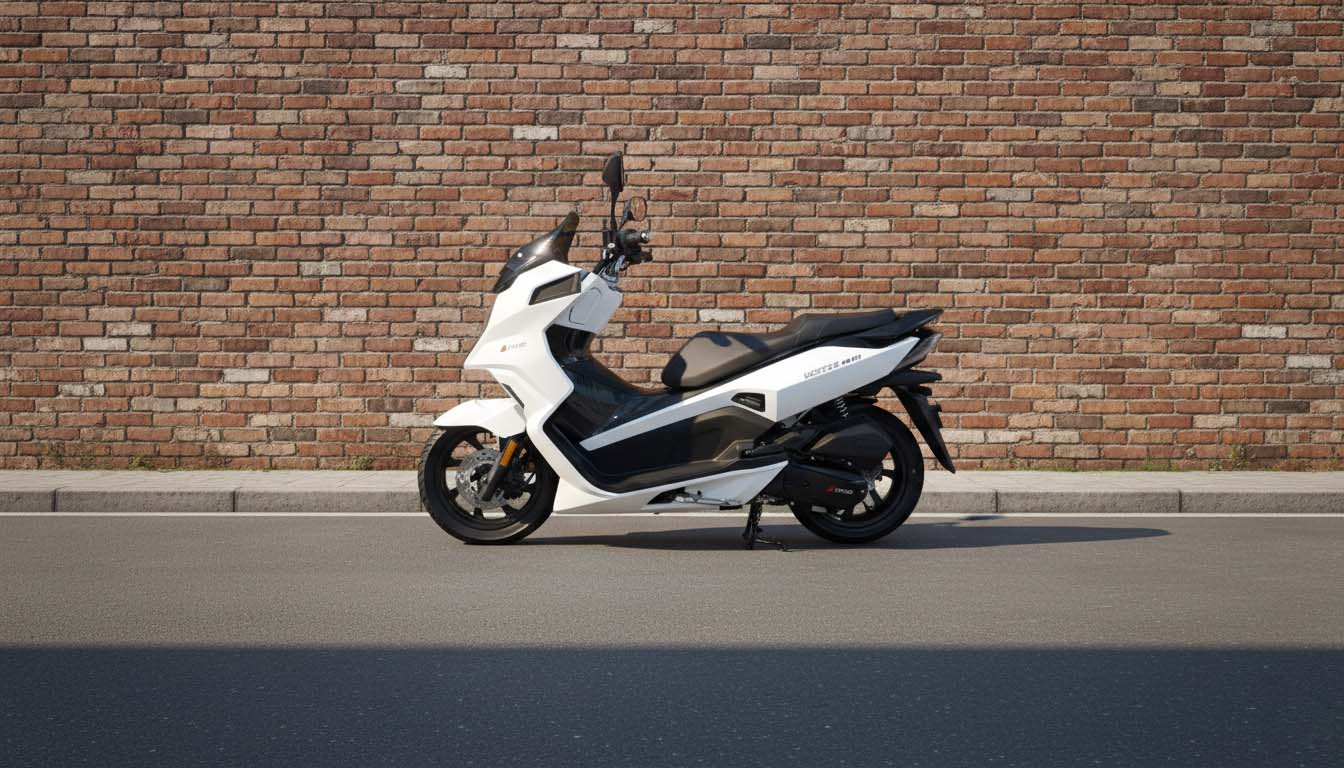
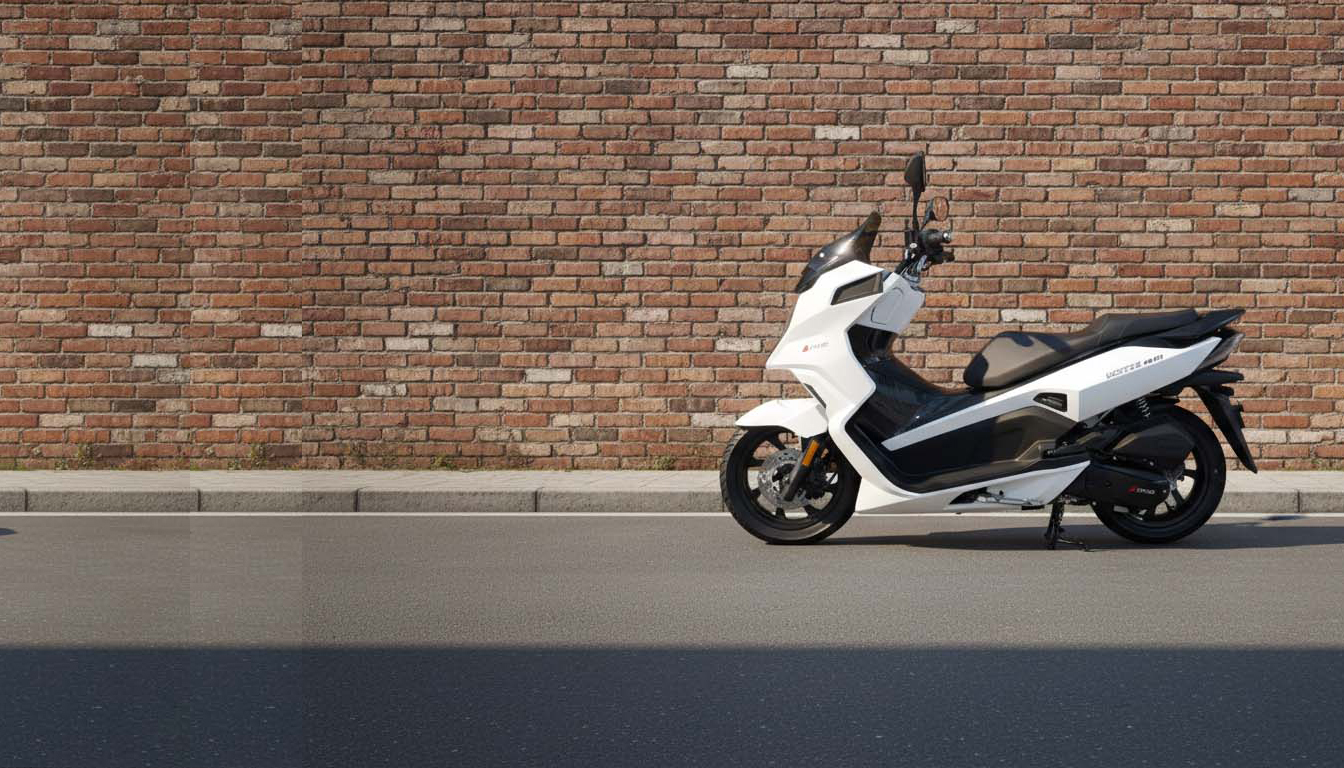
imesh-end

diff --git a/client/src/Pages/Public/Home/Home.css b/client/src/Pages/Public/Home/Home.css
@@ -35,13 +35,20 @@
   width: 100%;
   height: 100%;
   background-size: cover;
-  background-position: center;
+  background-position: 75% center;
   opacity: 0;
   transform: scale(1.1);
   transition:
     opacity 1.5s ease-in-out,
     transform 6s ease;
   filter: brightness(0.7) grayscale(30%);
+}
+
+/* Mobile responsive for background slides */
+@media (max-width: 768px) {
+  .hero-bg-slide {
+    background-position: center;
+  }
 }
 
 .hero-bg-slide.active {
@@ -686,7 +693,7 @@
   }
 
   .hero-overlay-gradient {
-    background: linear-gradient(to top, var(--color-bg) 10%, transparent 100%);
+    background: linear-gradient(to bottom, var(--color-bg) 20%, transparent 80%);
   }
 
   .hero-content {
@@ -713,8 +720,6 @@
     line-height: 1.3;
     margin-bottom: 1.5rem;
   }
-
-
 
   .hero-buttons {
     justify-content: center;
@@ -824,6 +829,8 @@
     min-height: 550px;
     height: 70vh;
   }
+
+
 
   .hero-content {
     margin: 0 1rem;
